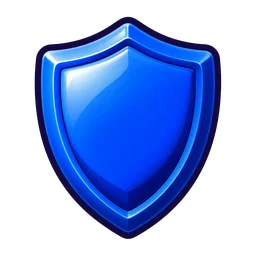
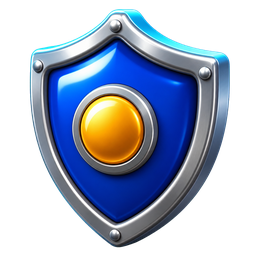
juego: los cuatro iconos de booster distintos, sus fondos de marco, y fuera el gris (e236171)

diff --git a/play-cktxj8m6/index.html b/play-cktxj8m6/index.html
@@ -1,6 +1,6 @@
 <meta charset="utf-8">
 <meta name="robots" content="noindex, nofollow">
-<meta name="bt-build" content="2026-08-07 b80e764"><!--+AG doc 34 Fase B: sin esto el navegador adivina el encoding y los emojis/flechas salen como mojibake (a-¶ PLAY) -->
+<meta name="bt-build" content="2026-08-07 e236171"><!--+AG doc 34 Fase B: sin esto el navegador adivina el encoding y los emojis/flechas salen como mojibake (a-¶ PLAY) -->
 <meta name="viewport" content="width=device-width, initial-scale=1, maximum-scale=1, user-scalable=no">
 <title>BallTrials · El juego</title>
 <!--+AG doc 41 bloque E: el mapa de librerias (three, para el fondo vivo y las bolas de los menus).
@@ -1093,9 +1093,28 @@
      pide quitar. Asi que el color se queda SOLO en el halo de detras del icono hasta que Codex
      entregue el fondo y el icono propio de cada booster (encargo arte/codex/43); ese dia el halo se
      va con el andamio. */
+  /*+AG ⚠ 2026-08-07 · EL MARCO DEL BOOSTER YA TIENE FONDO. Jaime: «te pedí también background para el
+     frame del booster, no hay nada». Estaba pedido a Codex Y ENTREGADO (`bstfondo-<clave>.webp`,
+     1024×384 a sangre, uno por booster con su color), y llevaba sin instalar desde las 22:50.
+     El velo de encima NO es decoración: el fondo es una energía oscura con vetas claras y detrás van
+     el nombre del booster y cuatro precios en blanco. Con el velo, `banco-contraste-pantallas` sigue
+     dando 0 textos por debajo del suelo; sin él, no se midió porque no se puso nunca sin él.
+     `--bg` lo pone renderBoosters(); el degradado de siempre se queda debajo como red de seguridad
+     por si una pieza no carga. */
   .bst-card{ position:relative; border-radius:20px; padding:13px 13px 14px; margin-bottom:12px;
-    background:linear-gradient(#2a2260,#1b1642); border:2px solid #ffd23f8c;
+    background:
+      linear-gradient(#2a2260c9,#1b1642ef),
+      var(--bg, none) center/cover no-repeat,
+      linear-gradient(#2a2260,#1b1642);
+    border:2px solid #ffd23f8c;
     box-shadow:0 4px 0 #0d0726, 0 8px 22px #0006, inset 0 1px 0 #ffffff14; }
+  /*+AG «UN POCO ROJIZO CUANDO NO TIENES NINGUNO», que es lo que Jaime pidió en vez del gris de
+     "no te llega". El rojo va en el MARCO y en un halo, no en el contenido: los iconos y los precios
+     siguen brillando igual. `--red` es el de la casa (#e0293d). */
+  .bst-card.vacio{ border-color:#e0293d99;
+    box-shadow:0 4px 0 #0d0726, 0 8px 22px #0006, 0 0 18px #e0293d3d, inset 0 1px 0 #ffffff14; }
+  .bst-card.vacio::after{ content:''; position:absolute; inset:0; border-radius:inherit; pointer-events:none;
+    background:radial-gradient(120% 80% at 50% 100%, #e0293d26, transparent 70%); }
   .bst-top{ display:flex; align-items:center; gap:13px; margin-bottom:12px; }
   .bst-show{ width:76px; height:76px; flex:0 0 auto; border-radius:18px; display:grid; place-items:center;
     background:radial-gradient(circle at 50% 42%, color-mix(in srgb, var(--cc,#ffd23f) 30%, transparent), transparent 70%), #ffffff0a;
@@ -1136,7 +1155,10 @@
   /*+AG EL ACUSE DE RECIBO. `.sh-buy` no tenía NINGUNA regla de pulsado: comprar no respondía al dedo.
      Se hunde exactamente los 4 px de su propio canto, así que se apoya en vez de flotar. */
   .bst-buy:active:not(:disabled){ transform:translateY(4px); box-shadow:0 0 0 #b45a10, inset 0 1px 0 #fff8; }
-  .bst-buy:disabled{ filter:grayscale(.65) brightness(.72); cursor:default; }
+  /*+AG ⚠ AQUI VIVIA EL GRIS QUE JAIME NO PIDIO: `.bst-buy:disabled{ filter:grayscale(.65) ... }`.
+     Ya no hay ningun `:disabled` que aplicar — el boton no se apaga nunca (ver el comentario del
+     `onclick` en la tienda de boosters). Se deja escrito para que nadie lo reponga «arreglando» que
+     se pueda pulsar sin saldo: eso NO es un fallo, es la peticion. */
   .bst-buy .n{ font-size:var(--fs-4); font-weight:900; line-height:1; }
   .bst-buy .p{ display:flex; align-items:center; gap:3px; font-size:var(--fs-3); font-weight:900; color:#fff;
     -webkit-text-stroke:.16em #6b3a05; paint-order:stroke fill; }
@@ -5791,7 +5813,7 @@
 
 <!--+AG doc 41 bloque C: iconos de modo canonicos (SVG plano dorado del canal). Script CLASICO y
      antes del principal a proposito: se ejecuta en orden y la constante existe ya en el primer render. -->
-<script src="i18n/idiomas.js?v=b80e764"></script><!--+AG doc 49: catalogo de los 20 idiomas + cargador de paquetes. Clasico y ANTES del script principal: LANGS/ord/nfmt se construyen con el. -->
+<script src="i18n/idiomas.js?v=e236171"></script><!--+AG doc 49: catalogo de los 20 idiomas + cargador de paquetes. Clasico y ANTES del script principal: LANGS/ord/nfmt se construyen con el. -->
 <script src="arte/modeicons-vendored.js"></script>
 <script src="arte/bolas-canon.js"></script><!--+AG el color canonico de las 12 bolas, fuente unica (lo lee tambien integrar-bolas.py). Tiene que ir ANTES del script principal: ARCH_COLOR se construye con el. -->
 <script>
@@ -7095,7 +7117,7 @@ const nfmt=n=>Number(n||0).toLocaleString(BTI18N.nloc(LANG));
 //   `curl` devolvia los bytes nuevos y el navegador seguia pintando los viejos). La nota larga esta
 //   encima de `.cico` en el CSS. Al SUSTITUIR una imagen ya desplegada, sube este numero.
 //   v2 = 1-ago-2026: monedas de oro y gema (encargo 29) + trofeo con tinta (encargo 30).
-const ART_V='2';
+const ART_V='3';   /*+AG 7-ago: sube a 3 al entrar los 4 iconos de booster nuevos, que sustituyen a ficheros del mismo nombre */
 const uiArt=n=>`arte/ui/${n}.webp?v=${ART_V}`;
 const coinIco=(n,cls)=>`<img class="cico${cls?' '+cls:''}" src="${uiArt('moneda-'+n)}" alt="">`;
 //+AG 1-ago (encargo 31): los OBJETOS DE LOGRO — puesto 1º/2º/3º, corona del ganador y "hay premio"—
@@ -7408,10 +7430,17 @@ if(typeof SAVE.dayBonusDay!=='string') SAVE.dayBonusDay='';
 //   la Carrera Y en el Cazador, y el NITRO en la Carrera Y en Luz Roja. Gastarte los escudos hoy en el
 //   Cazador es quedarte sin ellos mañana en la Carrera.
 const BOOSTERS = {
-  nitro:    { modos:['race','redlight'], ico:'arte/ui/icono-nitro.webp' },
-  escudo:   { modos:['race','cazador'],  ico:'arte/ui/icono-escudo.webp' },
-  dash:     { modos:['cazador'],         ico:'arte/ui/icono-nitro.webp' },
-  fantasma: { modos:['redlight'],        ico:'arte/ui/icono-fantasma-booster.webp' },
+  //+AG ⚠ 2026-08-07 · IMPULSO YA TIENE ICONO PROPIO. Hasta hoy `dash` apuntaba al MISMO fichero que
+  //   `nitro`, y Jaime lo cantó mirando la Tienda: «te pedí que pusieses iconos distintos al nitro y
+  //   al dash, no lo has hecho». El arte estaba pedido Y ENTREGADO por Codex (Drive, 22:50 del 7-ago)
+  //   y llevaba ahí sin instalar. Ahora son cuatro piezas distintas: propulsor naranja, escudo azul,
+  //   rayo cian con líneas de velocidad y fantasma. Van por `uiArt()` y no a pelo para que se lleven
+  //   el `?v=` del pack: tres de las cuatro SUSTITUYEN a un fichero del mismo nombre, y sin sello el
+  //   navegador y la CDN siguen sirviendo el dibujo viejo.
+  nitro:    { modos:['race','redlight'], ico:'icono-nitro' },
+  escudo:   { modos:['race','cazador'],  ico:'icono-escudo' },
+  dash:     { modos:['cazador'],         ico:'icono-dash' },
+  fantasma: { modos:['redlight'],        ico:'icono-fantasma-booster' },
 };
 const BOOSTER_KEYS = Object.keys(BOOSTERS);
 //+AG 2026-08-06 · UN COLOR POR BOOSTER. `boostersEl()` era el ÚNICO render de la Tienda que no
@@ -8876,7 +8905,7 @@ function vivasSync(){
   if(_vivas){ _vivas.sincroniza(raiz,z); return; }
   if(_vivasCargando) return;
   _vivasCargando=true;
-  import('./motor/chassis/vivas.mjs?v=b80e764').then(m=>{ _vivas=m.vivas; _vivasCargando=false; window.__vivasInfo=()=>_vivas.info(); const [r,zz]=vivasQue(); _vivas.sincroniza(r,zz); })
+  import('./motor/chassis/vivas.mjs?v=e236171').then(m=>{ _vivas=m.vivas; _vivasCargando=false; window.__vivasInfo=()=>_vivas.info(); const [r,zz]=vivasQue(); _vivas.sincroniza(r,zz); })
     .catch(e=>{ _vivasCargando=false; console.warn('[vivas] no cargo; las cartas se quedan sin bola', e); });
 }
 //+AG y se PARAN al salir: doce bolas en 3D girando detras de una pantalla que ya no miras es bateria
@@ -9375,11 +9404,14 @@ function featEl(){ const d=document.createElement('div');
 }
 //+AG la sacudida de «no te llega»: 380 ms sobre la pildora de gemas de la cabecera. Se reinicia a mano
 //   (quitar clase + reflow + poner) porque pulsar dos veces seguidas sin eso no vuelve a animar.
-function sacudeGemas(){ const p=el('shGemas'); if(!p) return;
+function sacudePildora(id){ const p=el(id); if(!p) return;
   const caja=p.closest('.coin')||p;
   caja.classList.remove('falta'); void caja.offsetWidth; caja.classList.add('falta');
   setTimeout(()=>caja.classList.remove('falta'), 420);
 }
+function sacudeGemas(){ sacudePildora('shGemas'); }
+//+AG el hermano en monedas, para los boosters: el mismo gesto, la otra pildora (7-ago).
+function sacudeChispas(){ sacudePildora('shChispas'); }
 //+AG la nota va por coinify: lleva ✦ y ◆ dentro de la frase y sin esto se pintaba el glifo del
 //   sistema, que es justo lo que el juego dejo de hacer en todas las demas pantallas.
 function bolasEl(){ const s=S(), d=document.createElement('div'); d.innerHTML='';
@@ -9475,12 +9507,15 @@ function boostersEl(){ const s=S(), d=document.createElement('div');
     const B=BOOSTERS[k], tengo=invBooster(k);
     const c=document.createElement('div'); c.className='bst-card'+(tengo?'':' vacio');
     c.style.setProperty('--cc', BOOSTER_COLOR[k]||'#ffd23f');
+    //+AG el fondo pintado del marco, uno por booster (encargo entregado el 7-ago). Va como variable y
+    //   no como clase para no inventarse cuatro reglas de CSS que dicen lo mismo.
+    c.style.setProperty('--bg', `url(${uiArt('bstfondo-'+k)})`);
     //+AG los modos van en ICONO y no en palabras: "LA GRAN CARRERA · EL CAZADOR" ocupaba dos renglones
     //   de 11 px. El glifo de modo ya existe (MODOS[m].ico) y se lee igual en los 20 idiomas.
     const modos = B.modos.map(m=>`<i title="${modeTitle(m)}">${(MODOS[m]&&MODOS[m].ico)||''}</i>`).join('');
     c.innerHTML =
       `<div class="bst-top">`+
-        `<div class="bst-show"><img src="${B.ico}" alt=""></div>`+
+        `<div class="bst-show"><img src="${uiArt(B.ico)}" alt=""></div>`+
         `<div class="bst-txt"><div class="bst-nm">${boosterName(k)}</div><div class="bst-modos">${modos}</div></div>`+
         `<div class="bst-tengo"><b>${s.bstStock||'You have'}</b>×${tengo}</div>`+
       `</div>`;
@@ -9493,8 +9528,16 @@ function boostersEl(){ const s=S(), d=document.createElement('div');
       const b=document.createElement('button'); b.className='bst-buy';
       b.innerHTML=(ahorro>0?`<span class="off">−${ahorro}%</span>`:'')+
         `<span class="n">×${L.n}</span><span class="p">${nfmt(L.m)} ${coinIco('chispa','sm')}</span>`;
-      b.disabled=SAVE.chispas<L.m;
-      b.onclick=()=>buyBooster(k, L.n, L.m);
+      //+AG ⚠ 2026-08-07 (Jaime) · EL BOTON YA NO SE APAGA CUANDO NO TE LLEGA. Antes iba
+      //   `b.disabled = SAVE.chispas < L.m`, y con el saldo a cero las cuatro compras salian GRISES y
+      //   muertas. Su veredicto, literal: «has puesto gris las cosas, creo que es porque no tienes
+      //   dinero suficiente, NUNCA HE PEDIDO ESO. Los iconos siempre tienen que brillar y hacerles
+      //   click. Solo tienen que ponerse un poco rojizos cuando no tienes nada».
+      //   Asi que el boton se queda encendido y pulsable SIEMPRE, y si no llega el saldo hace lo que
+      //   ya hace el Pack (docs/84): sacude la pildora de monedas de la cabecera, que es DONDE esta la
+      //   respuesta — y que ademas ya esta roja si estas a cero. Señalar la puerta es informacion;
+      //   apagar el boton es quitarle al jugador la unica pista de que ahi se compra.
+      b.onclick=()=>{ if(SAVE.chispas<L.m){ sacudeChispas(); return; } buyBooster(k, L.n, L.m); };
       fila.appendChild(b);
     });
     c.appendChild(fila); d.appendChild(c);
@@ -9575,7 +9618,7 @@ function buyBooster(k, n, coste){
   //   la ventana y a 20 px— así que no se pierde información: se pierde la pequeñez.
   if(window.BT_UI && BT_UI.compra) BT_UI.compra((n||1)>=15);
   //+AG el saldo lo pinta ya `dinero()` para las cinco pantallas: aquí no hay que hacer nada.
-  celebra({ ico:BOOSTERS[k].ico, color:BOOSTER_COLOR[k], titulo:boosterName(k),
+  celebra({ ico:uiArt(BOOSTERS[k].ico), color:BOOSTER_COLOR[k], titulo:boosterName(k),
             sub:'×'+(n||1), pie:S().celTienes ? S().celTienes(invBooster(k)) : '×'+invBooster(k),
             peso:(n||1) });
   renderTienda(); }
@@ -11186,7 +11229,7 @@ atrasSync();
 <!--+AG El mapa de librerias (importmap) YA NO VIVE AQUI: se subio al <head>, arriba del todo.
      Tiene que estar parseado ANTES del primer import, y desde aqui abajo no lo estaba. -->
 <script type="module">
-  import { startAmbient } from './arte/ambient.mjs?v=b80e764';
+  import { startAmbient } from './arte/ambient.mjs?v=e236171';
   //+AG el modulo se ejecuta DESPUES del script clasico, asi que al llegar aqui la Home ya esta
   //   pintada: por eso se enciende a mano si toca, en vez de esperar a un cambio de pantalla.
   //+AG feedback Jaime 2026-07-27: ahora hay DOS lienzos posibles (Home #ambient y Resultados #ambientR);
@@ -11202,7 +11245,7 @@ atrasSync();
   //+AG doc 51: «asi se ve en pista» dentro de la ficha del Garaje. Se expone en window porque
   //   openDetail/closeDetail viven en el script CLASICO de arriba, que no puede importar modulos.
   //   Mismo trato que el fondo vivo: un solo contexto WebGL a la vez, y se apaga al salir.
-  import('./arte/pista-preview.mjs?v=b80e764').then(m => {
+  import('./arte/pista-preview.mjs?v=e236171').then(m => {
     window.BT_PISTA = { show:(el,k)=>{ try{ m.showPista(el,k); }catch(e){} }, stop:()=>m.stopPista() };
   });
 </script>
@@ -11214,8 +11257,8 @@ atrasSync();
      Se reusa el reproductor DEL MOTOR (chassis/webaudio.mjs), no uno nuevo: mismo desbloqueo por gesto, mismo
      rescate al volver de segundo plano en movil. -->
 <script type="module">
-  import { createWebAudio } from './motor/chassis/webaudio.mjs?v=b80e764';
-  import { createUiSfx } from './motor/chassis/uisfx.mjs?v=b80e764';   //+AG el clic de los menus (VB Jaime 2026-07-27)
+  import { createWebAudio } from './motor/chassis/webaudio.mjs?v=e236171';
+  import { createUiSfx } from './motor/chassis/uisfx.mjs?v=e236171';   //+AG el clic de los menus (VB Jaime 2026-07-27)
   //+AG VOLUMEN MEDIDO, no a ojo. La pista de lobby ya viene suavizada de origen (-22,3 LUFS) y las de partida
   //   estan a -15, o sea 7 dB mas fuertes. Con el 0.26 que usa la web oficial esto quedaria 8,5 dB por debajo de
   //   la partida: casi inaudible. Con 0.40 se queda ~5 dB por debajo, que es lo que se busca: los menus suenan de
@@ -11385,7 +11428,7 @@ atrasSync();
   (async ()=>{
     try{
       const [{crearNube},{crearSincro}] = await Promise.all([
-        import('./motor/chassis/nube.mjs?v=b80e764'), import('./motor/chassis/sincro.mjs?v=b80e764')]);
+        import('./motor/chassis/nube.mjs?v=e236171'), import('./motor/chassis/sincro.mjs?v=e236171')]);
       const nube   = crearNube();
       const sincro = crearSincro({ nube, aviso:(q,d)=>console.log('[nube]', q, d||'') });
       window.BT_NUBE = { nube, sincro };

diff --git a/play-cktxj8m6/motor/redlight/index.html b/play-cktxj8m6/motor/redlight/index.html
@@ -3,7 +3,7 @@
 <head>
 <meta charset="utf-8" />
 <meta name="robots" content="noindex, nofollow">
-<meta name="bt-build" content="2026-08-07 b80e764">
+<meta name="bt-build" content="2026-08-07 e236171">
 <meta name="viewport" content="width=device-width, initial-scale=1" />
 <!--+AG el HTML se sirve en INGLES (defecto del juego); ?lang=es lo traduce por JS (applyLang) -->
 <title>YouBall · Red Light Rush (WebGL) · The Marble Games</title>
@@ -399,7 +399,7 @@ if(new URLSearchParams(location.search).get('drive')==='1'){
 
 <!--+AG ICONO DE MODO para el cartel de arranque: script CLÁSICO (se ejecuta antes del módulo) igual que en
      juego.html, así window.VENDORED_MODE_ICONS ya existe cuando chassis/arranque.mjs construye el cartel. -->
-<script src="../../i18n/idiomas.js?v=b80e764"></script><!--+AG doc 49: catalogo y cargador de los 20 idiomas, compartido con el shell. Clasico y antes del modulo. -->
+<script src="../../i18n/idiomas.js?v=e236171"></script><!--+AG doc 49: catalogo y cargador de los 20 idiomas, compartido con el shell. Clasico y antes del modulo. -->
 <script src="../../arte/modeicons-vendored.js"></script>
 
 <script type="importmap">
@@ -410,30 +410,30 @@ if(new URLSearchParams(location.search).get('drive')==='1'){
 </script>
 
 <script type="module">
-import { THREE, sat, createStage, createParticles, makeBallVinyl, createStarBurst, createWindTrail, createBloom, frameOrtho, BLOOM } from '../chassis/gfx.mjs?v=b80e764';
-import { archLook } from '../chassis/ballmat.mjs?v=b80e764';   //+AG doc 41 bloque G: material de la bola-heroe
-import { attachSquash } from '../chassis/squash.mjs?v=b80e764';
-import { createCelebration } from '../chassis/celebration.mjs?v=b80e764';
-import { createKillfeed } from '../chassis/killfeed.mjs?v=b80e764';
-import { createCensusBoard } from '../chassis/censusboard.mjs?v=b80e764';
-import { createCupoGauge } from '../chassis/cupogauge.mjs?v=b80e764';
-import { createKillTags } from '../chassis/killtag.mjs?v=b80e764';
-import { crearInventario } from '../chassis/invboost.mjs?v=b80e764';   //+AG 2026-08-06 inventario de boosters (1 uso gratis + stock comprado)
-import { EmoBook, PRIO } from '../chassis/emotions.mjs?v=b80e764';
-import { archFace } from '../chassis/facegen.mjs?v=b80e764';   //+AG archFace: la cara de la FICHA (ceja+boca del heroe) sobre el reposo
-import { Sim, TEAMS, SHORT_COLORS, SHORT_COLORS_6, BALL_R, FPS, FIELD_W, FIELD_L, XL, XR, SPAWN_Y, GATE_Y, SAFE_Y } from './sim.js?v=b80e764';
-import { createWebAudio, pickTrack } from '../chassis/webaudio.mjs?v=b80e764';
-import { buildSfxBuffer } from './sfxmap.mjs?v=b80e764';
-import { createCoach } from '../chassis/coach.mjs?v=b80e764';   //+AG COACH del tutorial "Cómo jugar" (solo se usa con ?tutorial=1)
-import { createArranque, modeBanner, sfxCountdown } from '../chassis/arranque.mjs?v=b80e764';   //+AG cartel "¿LISTO?" + cuenta atrás CON sonido (los 3 modos)
-import { createUiSfx } from '../chassis/uisfx.mjs?v=b80e764';   //+AG doc 88: el sonido de "no puedo"
-import { createJuice } from '../chassis/juice.mjs?v=b80e764';   //+AG doc 88: lo que pasa cuando el dedo toca un botón (los 3 modos)
+import { THREE, sat, createStage, createParticles, makeBallVinyl, createStarBurst, createWindTrail, createBloom, frameOrtho, BLOOM } from '../chassis/gfx.mjs?v=e236171';
+import { archLook } from '../chassis/ballmat.mjs?v=e236171';   //+AG doc 41 bloque G: material de la bola-heroe
+import { attachSquash } from '../chassis/squash.mjs?v=e236171';
+import { createCelebration } from '../chassis/celebration.mjs?v=e236171';
+import { createKillfeed } from '../chassis/killfeed.mjs?v=e236171';
+import { createCensusBoard } from '../chassis/censusboard.mjs?v=e236171';
+import { createCupoGauge } from '../chassis/cupogauge.mjs?v=e236171';
+import { createKillTags } from '../chassis/killtag.mjs?v=e236171';
+import { crearInventario } from '../chassis/invboost.mjs?v=e236171';   //+AG 2026-08-06 inventario de boosters (1 uso gratis + stock comprado)
+import { EmoBook, PRIO } from '../chassis/emotions.mjs?v=e236171';
+import { archFace } from '../chassis/facegen.mjs?v=e236171';   //+AG archFace: la cara de la FICHA (ceja+boca del heroe) sobre el reposo
+import { Sim, TEAMS, SHORT_COLORS, SHORT_COLORS_6, BALL_R, FPS, FIELD_W, FIELD_L, XL, XR, SPAWN_Y, GATE_Y, SAFE_Y } from './sim.js?v=e236171';
+import { createWebAudio, pickTrack } from '../chassis/webaudio.mjs?v=e236171';
+import { buildSfxBuffer } from './sfxmap.mjs?v=e236171';
+import { createCoach } from '../chassis/coach.mjs?v=e236171';   //+AG COACH del tutorial "Cómo jugar" (solo se usa con ?tutorial=1)
+import { createArranque, modeBanner, sfxCountdown } from '../chassis/arranque.mjs?v=e236171';   //+AG cartel "¿LISTO?" + cuenta atrás CON sonido (los 3 modos)
+import { createUiSfx } from '../chassis/uisfx.mjs?v=e236171';   //+AG doc 88: el sonido de "no puedo"
+import { createJuice } from '../chassis/juice.mjs?v=e236171';   //+AG doc 88: lo que pasa cuando el dedo toca un botón (los 3 modos)
 //+AG el ámbito NO es opcional: la regla base es `#controls button` (id + etiqueta) y le gana en
 //   especificidad a cualquier `.j-hit` suelto. Es la trampa que ya costó una versión muerta en este
 //   mismo fichero (ver la nota de `#controls button#bGhost .bi`).
 const juice = createJuice({ ambito:'#controls', reducido: new URLSearchParams(location.search).get('redfx')==='1' });
-import { createPausa } from '../chassis/pausa.mjs?v=b80e764';   //+AG la partida se PARA cuando el shell pregunta encima (los 3 modos)
-import { cantarPuesto } from '../chassis/veredicto.mjs?v=b80e764';   //+AG cartel de FIN: "en qué puesto has quedado", antes de soltar el resultado al shell
+import { createPausa } from '../chassis/pausa.mjs?v=e236171';   //+AG la partida se PARA cuando el shell pregunta encima (los 3 modos)
+import { cantarPuesto } from '../chassis/veredicto.mjs?v=e236171';   //+AG cartel de FIN: "en qué puesto has quedado", antes de soltar el resultado al shell
 
 window.addEventListener('error', e => { document.getElementById('err').style.display='grid'; console.error(e.error||e.message); });
 

diff --git a/play-cktxj8m6/motor/race/index.html b/play-cktxj8m6/motor/race/index.html
@@ -4,7 +4,7 @@
 <head>
 <meta charset="utf-8" />
 <meta name="robots" content="noindex, nofollow">
-<meta name="bt-build" content="2026-08-07 b80e764">
+<meta name="bt-build" content="2026-08-07 e236171">
 <meta name="viewport" content="width=device-width, initial-scale=1" />
 <title>YouBall · La Gran Carrera (WebGL)</title>
 <style>
@@ -380,7 +380,7 @@ if(new URLSearchParams(location.search).get('drive')==='1'){
 
 <!--+AG ICONO DE MODO para el cartel de arranque: script CLÁSICO (se ejecuta antes del módulo) igual que en
      juego.html, así window.VENDORED_MODE_ICONS ya existe cuando chassis/arranque.mjs construye el cartel. -->
-<script src="../../i18n/idiomas.js?v=b80e764"></script><!--+AG doc 49: catalogo y cargador de los 20 idiomas, compartido con el shell. Clasico y antes del modulo. -->
+<script src="../../i18n/idiomas.js?v=e236171"></script><!--+AG doc 49: catalogo y cargador de los 20 idiomas, compartido con el shell. Clasico y antes del modulo. -->
 <script src="../../arte/modeicons-vendored.js"></script>
 
 <script type="importmap">
@@ -391,27 +391,27 @@ if(new URLSearchParams(location.search).get('drive')==='1'){
 </script>
 
 <script type="module">
-import { THREE, BLOOM, sat, createStage, createParticles, makeBallVinyl, createStarBurst, createWindTrail, createItemPops, createBloom, frameOrtho, buildHud, updateHud } from '../chassis/gfx.mjs?v=b80e764';
-import { archLook } from '../chassis/ballmat.mjs?v=b80e764';   //+AG doc 41 bloque G: material de la bola-heroe
-import { attachSquash } from '../chassis/squash.mjs?v=b80e764';
+import { THREE, BLOOM, sat, createStage, createParticles, makeBallVinyl, createStarBurst, createWindTrail, createItemPops, createBloom, frameOrtho, buildHud, updateHud } from '../chassis/gfx.mjs?v=e236171';
+import { archLook } from '../chassis/ballmat.mjs?v=e236171';   //+AG doc 41 bloque G: material de la bola-heroe
+import { attachSquash } from '../chassis/squash.mjs?v=e236171';
 import { Sim, RNG, TEAMS, SHORT_COLORS, BALL_R, WIDTH, GATE_Y, GATE_H, TOP, FPS,
-         DIR, N_BALLS, CAM_SCALE, ASPA_R, ASPA_THICK, PLAT_HW, PLAT_HH } from './sim.js?v=b80e764';   //+AG extras de la capa de agencia
+         DIR, N_BALLS, CAM_SCALE, ASPA_R, ASPA_THICK, PLAT_HW, PLAT_HH } from './sim.js?v=e236171';   //+AG extras de la capa de agencia
 //+AG doc 62: los encuadres del cierre (sim.hero_scale / sim.celeb_scale) se leen del OBJETO sim, no por
 //   import. Un export que la CDN aún no ha refrescado tumba el módulo entero y la partida no arranca (pasó
 //   en producción el 2-ago); un campo que falta degrada a la cámara de siempre. Ver la nota en sim.js.
-import { EmoBook, PRIO } from '../chassis/emotions.mjs?v=b80e764';
-import { archFace } from '../chassis/facegen.mjs?v=b80e764';   //+AG archFace: la cara de la FICHA (ceja+boca del heroe) sobre el reposo
-import { itemTexture } from '../chassis/itemgen.mjs?v=b80e764';
-import { crearInventario } from '../chassis/invboost.mjs?v=b80e764';   //+AG 2026-08-06 inventario de boosters (1 uso gratis + stock comprado)
-import { createWebAudio, pickTrack } from '../chassis/webaudio.mjs?v=b80e764';
-import { buildSfxBuffer } from './sfxmap.mjs?v=b80e764';
-import { runToEnd } from '../chassis/simrun.mjs?v=b80e764';
-import { createCoach } from '../chassis/coach.mjs?v=b80e764';   //+AG COACH del tutorial "Cómo jugar" (solo se usa con ?tutorial=1)
-import { createArranque, modeBanner, sfxCountdown } from '../chassis/arranque.mjs?v=b80e764';   //+AG cartel "¿LISTO?" + cuenta atrás CON sonido (los 3 modos)
-import { createPausa } from '../chassis/pausa.mjs?v=b80e764';   //+AG la partida se PARA cuando el shell pregunta encima (los 3 modos)
-import { cantarPuesto } from '../chassis/veredicto.mjs?v=b80e764';   //+AG cartel de META: "en qué puesto has quedado", antes de soltar el resultado al shell
-import { createUiSfx } from '../chassis/uisfx.mjs?v=b80e764';   //+AG doc 88: el sonido de "no puedo"
-import { createJuice } from '../chassis/juice.mjs?v=b80e764';   //+AG doc 88: lo que pasa cuando el dedo toca un botón (los 3 modos)
+import { EmoBook, PRIO } from '../chassis/emotions.mjs?v=e236171';
+import { archFace } from '../chassis/facegen.mjs?v=e236171';   //+AG archFace: la cara de la FICHA (ceja+boca del heroe) sobre el reposo
+import { itemTexture } from '../chassis/itemgen.mjs?v=e236171';
+import { crearInventario } from '../chassis/invboost.mjs?v=e236171';   //+AG 2026-08-06 inventario de boosters (1 uso gratis + stock comprado)
+import { createWebAudio, pickTrack } from '../chassis/webaudio.mjs?v=e236171';
+import { buildSfxBuffer } from './sfxmap.mjs?v=e236171';
+import { runToEnd } from '../chassis/simrun.mjs?v=e236171';
+import { createCoach } from '../chassis/coach.mjs?v=e236171';   //+AG COACH del tutorial "Cómo jugar" (solo se usa con ?tutorial=1)
+import { createArranque, modeBanner, sfxCountdown } from '../chassis/arranque.mjs?v=e236171';   //+AG cartel "¿LISTO?" + cuenta atrás CON sonido (los 3 modos)
+import { createPausa } from '../chassis/pausa.mjs?v=e236171';   //+AG la partida se PARA cuando el shell pregunta encima (los 3 modos)
+import { cantarPuesto } from '../chassis/veredicto.mjs?v=e236171';   //+AG cartel de META: "en qué puesto has quedado", antes de soltar el resultado al shell
+import { createUiSfx } from '../chassis/uisfx.mjs?v=e236171';   //+AG doc 88: el sonido de "no puedo"
+import { createJuice } from '../chassis/juice.mjs?v=e236171';   //+AG doc 88: lo que pasa cuando el dedo toca un botón (los 3 modos)
 //+AG el ámbito NO es opcional: `#ctr button:disabled` le gana en especificidad a cualquier `.j-hit` suelto,
 //   y un booster se pone `disabled` en el MISMO frame en que se dispara. Sin el ámbito, el fogonazo del
 //   botón que más importa no se vería jamás (es la trampa del doc 74 §6, ahora con su nombre).

diff --git a/play-cktxj8m6/motor/cazador/index.html b/play-cktxj8m6/motor/cazador/index.html
@@ -3,7 +3,7 @@
 <head>
 <meta charset="utf-8" />
 <meta name="robots" content="noindex, nofollow">
-<meta name="bt-build" content="2026-08-07 b80e764">
+<meta name="bt-build" content="2026-08-07 e236171">
 <meta name="viewport" content="width=device-width, initial-scale=1" />
 <!--+AG el HTML se sirve en INGLES (defecto del juego); ?lang=es lo traduce por JS (applyLang) -->
 <title>YouBall · The Hunter (WebGL)</title>
@@ -304,7 +304,7 @@ if(new URLSearchParams(location.search).get('drive')==='1'){
 
 <!--+AG ICONO DE MODO para el cartel de arranque: script CLÁSICO (se ejecuta antes del módulo) igual que en
      juego.html, así window.VENDORED_MODE_ICONS ya existe cuando chassis/arranque.mjs construye el cartel. -->
-<script src="../../i18n/idiomas.js?v=b80e764"></script><!--+AG doc 49: catalogo y cargador de los 20 idiomas, compartido con el shell. Clasico y antes del modulo. -->
+<script src="../../i18n/idiomas.js?v=e236171"></script><!--+AG doc 49: catalogo y cargador de los 20 idiomas, compartido con el shell. Clasico y antes del modulo. -->
 <script src="../../arte/modeicons-vendored.js"></script>
 
 <script type="importmap">
@@ -315,27 +315,27 @@ if(new URLSearchParams(location.search).get('drive')==='1'){
 </script>
 
 <script type="module">
-import { THREE, BLOOM, sat, createStage, createParticles, makeBallVinyl, makeFacePlane, createItemPool, createItemPops, createStarBurst, createWindTrail, createBloom, frameOrtho } from '../chassis/gfx.mjs?v=b80e764';
-import { archLook } from '../chassis/ballmat.mjs?v=b80e764';   //+AG doc 41 bloque G: material de la bola-heroe
-import { attachSquash } from '../chassis/squash.mjs?v=b80e764';
-import { Sim, RNG, TEAMS, BALL_R, ARENA_W, ARENA_H, FPS, AGENCIA } from './sim.js?v=b80e764';
-import { EmoBook, PRIO } from '../chassis/emotions.mjs?v=b80e764';
-import { archFace } from '../chassis/facegen.mjs?v=b80e764';   //+AG archFace: la cara de la FICHA (ceja+boca del heroe) sobre el reposo
-import { createCelebration } from '../chassis/celebration.mjs?v=b80e764';
-import { createWebAudio, pickTrack } from '../chassis/webaudio.mjs?v=b80e764';
-import { crearInventario } from '../chassis/invboost.mjs?v=b80e764';   //+AG 2026-08-06 inventario de boosters (1 uso gratis + stock comprado)
-import { buildSfxBuffer } from './sfxmap.mjs?v=b80e764';
-import { createCoach } from '../chassis/coach.mjs?v=b80e764';   //+AG COACH del tutorial "Cómo jugar" (solo se usa con ?tutorial=1)
-import { createArranque, modeBanner, sfxCountdown } from '../chassis/arranque.mjs?v=b80e764';   //+AG cartel "¿LISTO?" + cuenta atrás CON sonido (los 3 modos)
-import { createUiSfx } from '../chassis/uisfx.mjs?v=b80e764';   //+AG doc 88: el sonido de "no puedo"
-import { createJuice } from '../chassis/juice.mjs?v=b80e764';   //+AG doc 88: lo que pasa cuando el dedo toca un botón (los 3 modos)
+import { THREE, BLOOM, sat, createStage, createParticles, makeBallVinyl, makeFacePlane, createItemPool, createItemPops, createStarBurst, createWindTrail, createBloom, frameOrtho } from '../chassis/gfx.mjs?v=e236171';
+import { archLook } from '../chassis/ballmat.mjs?v=e236171';   //+AG doc 41 bloque G: material de la bola-heroe
+import { attachSquash } from '../chassis/squash.mjs?v=e236171';
+import { Sim, RNG, TEAMS, BALL_R, ARENA_W, ARENA_H, FPS, AGENCIA } from './sim.js?v=e236171';
+import { EmoBook, PRIO } from '../chassis/emotions.mjs?v=e236171';
+import { archFace } from '../chassis/facegen.mjs?v=e236171';   //+AG archFace: la cara de la FICHA (ceja+boca del heroe) sobre el reposo
+import { createCelebration } from '../chassis/celebration.mjs?v=e236171';
+import { createWebAudio, pickTrack } from '../chassis/webaudio.mjs?v=e236171';
+import { crearInventario } from '../chassis/invboost.mjs?v=e236171';   //+AG 2026-08-06 inventario de boosters (1 uso gratis + stock comprado)
+import { buildSfxBuffer } from './sfxmap.mjs?v=e236171';
+import { createCoach } from '../chassis/coach.mjs?v=e236171';   //+AG COACH del tutorial "Cómo jugar" (solo se usa con ?tutorial=1)
+import { createArranque, modeBanner, sfxCountdown } from '../chassis/arranque.mjs?v=e236171';   //+AG cartel "¿LISTO?" + cuenta atrás CON sonido (los 3 modos)
+import { createUiSfx } from '../chassis/uisfx.mjs?v=e236171';   //+AG doc 88: el sonido de "no puedo"
+import { createJuice } from '../chassis/juice.mjs?v=e236171';   //+AG doc 88: lo que pasa cuando el dedo toca un botón (los 3 modos)
 //+AG el ámbito NO es opcional: la regla base es `#controls button` (id + etiqueta) y le gana en
 //   especificidad a cualquier `.j-hit` suelto. Es la misma trampa que ya costó una versión muerta en la
 //   Carrera y otra en Luz Roja; aquí va escrita para no repetirla una tercera vez.
 const juice = createJuice({ ambito:'#controls', reducido: new URLSearchParams(location.search).get('redfx')==='1' });
-import { createPausa } from '../chassis/pausa.mjs?v=b80e764';   //+AG la partida se PARA cuando el shell pregunta encima (los 3 modos)
-import { cantarPuesto } from '../chassis/veredicto.mjs?v=b80e764';   //+AG cartel de FIN: "en qué puesto has quedado", antes de soltar el resultado al shell
-import { runToEnd } from '../chassis/simrun.mjs?v=b80e764';
+import { createPausa } from '../chassis/pausa.mjs?v=e236171';   //+AG la partida se PARA cuando el shell pregunta encima (los 3 modos)
+import { cantarPuesto } from '../chassis/veredicto.mjs?v=e236171';   //+AG cartel de FIN: "en qué puesto has quedado", antes de soltar el resultado al shell
+import { runToEnd } from '../chassis/simrun.mjs?v=e236171';
 
 window.addEventListener('error', e => { document.getElementById('err').style.display='grid'; console.error(e.error||e.message); });
 
